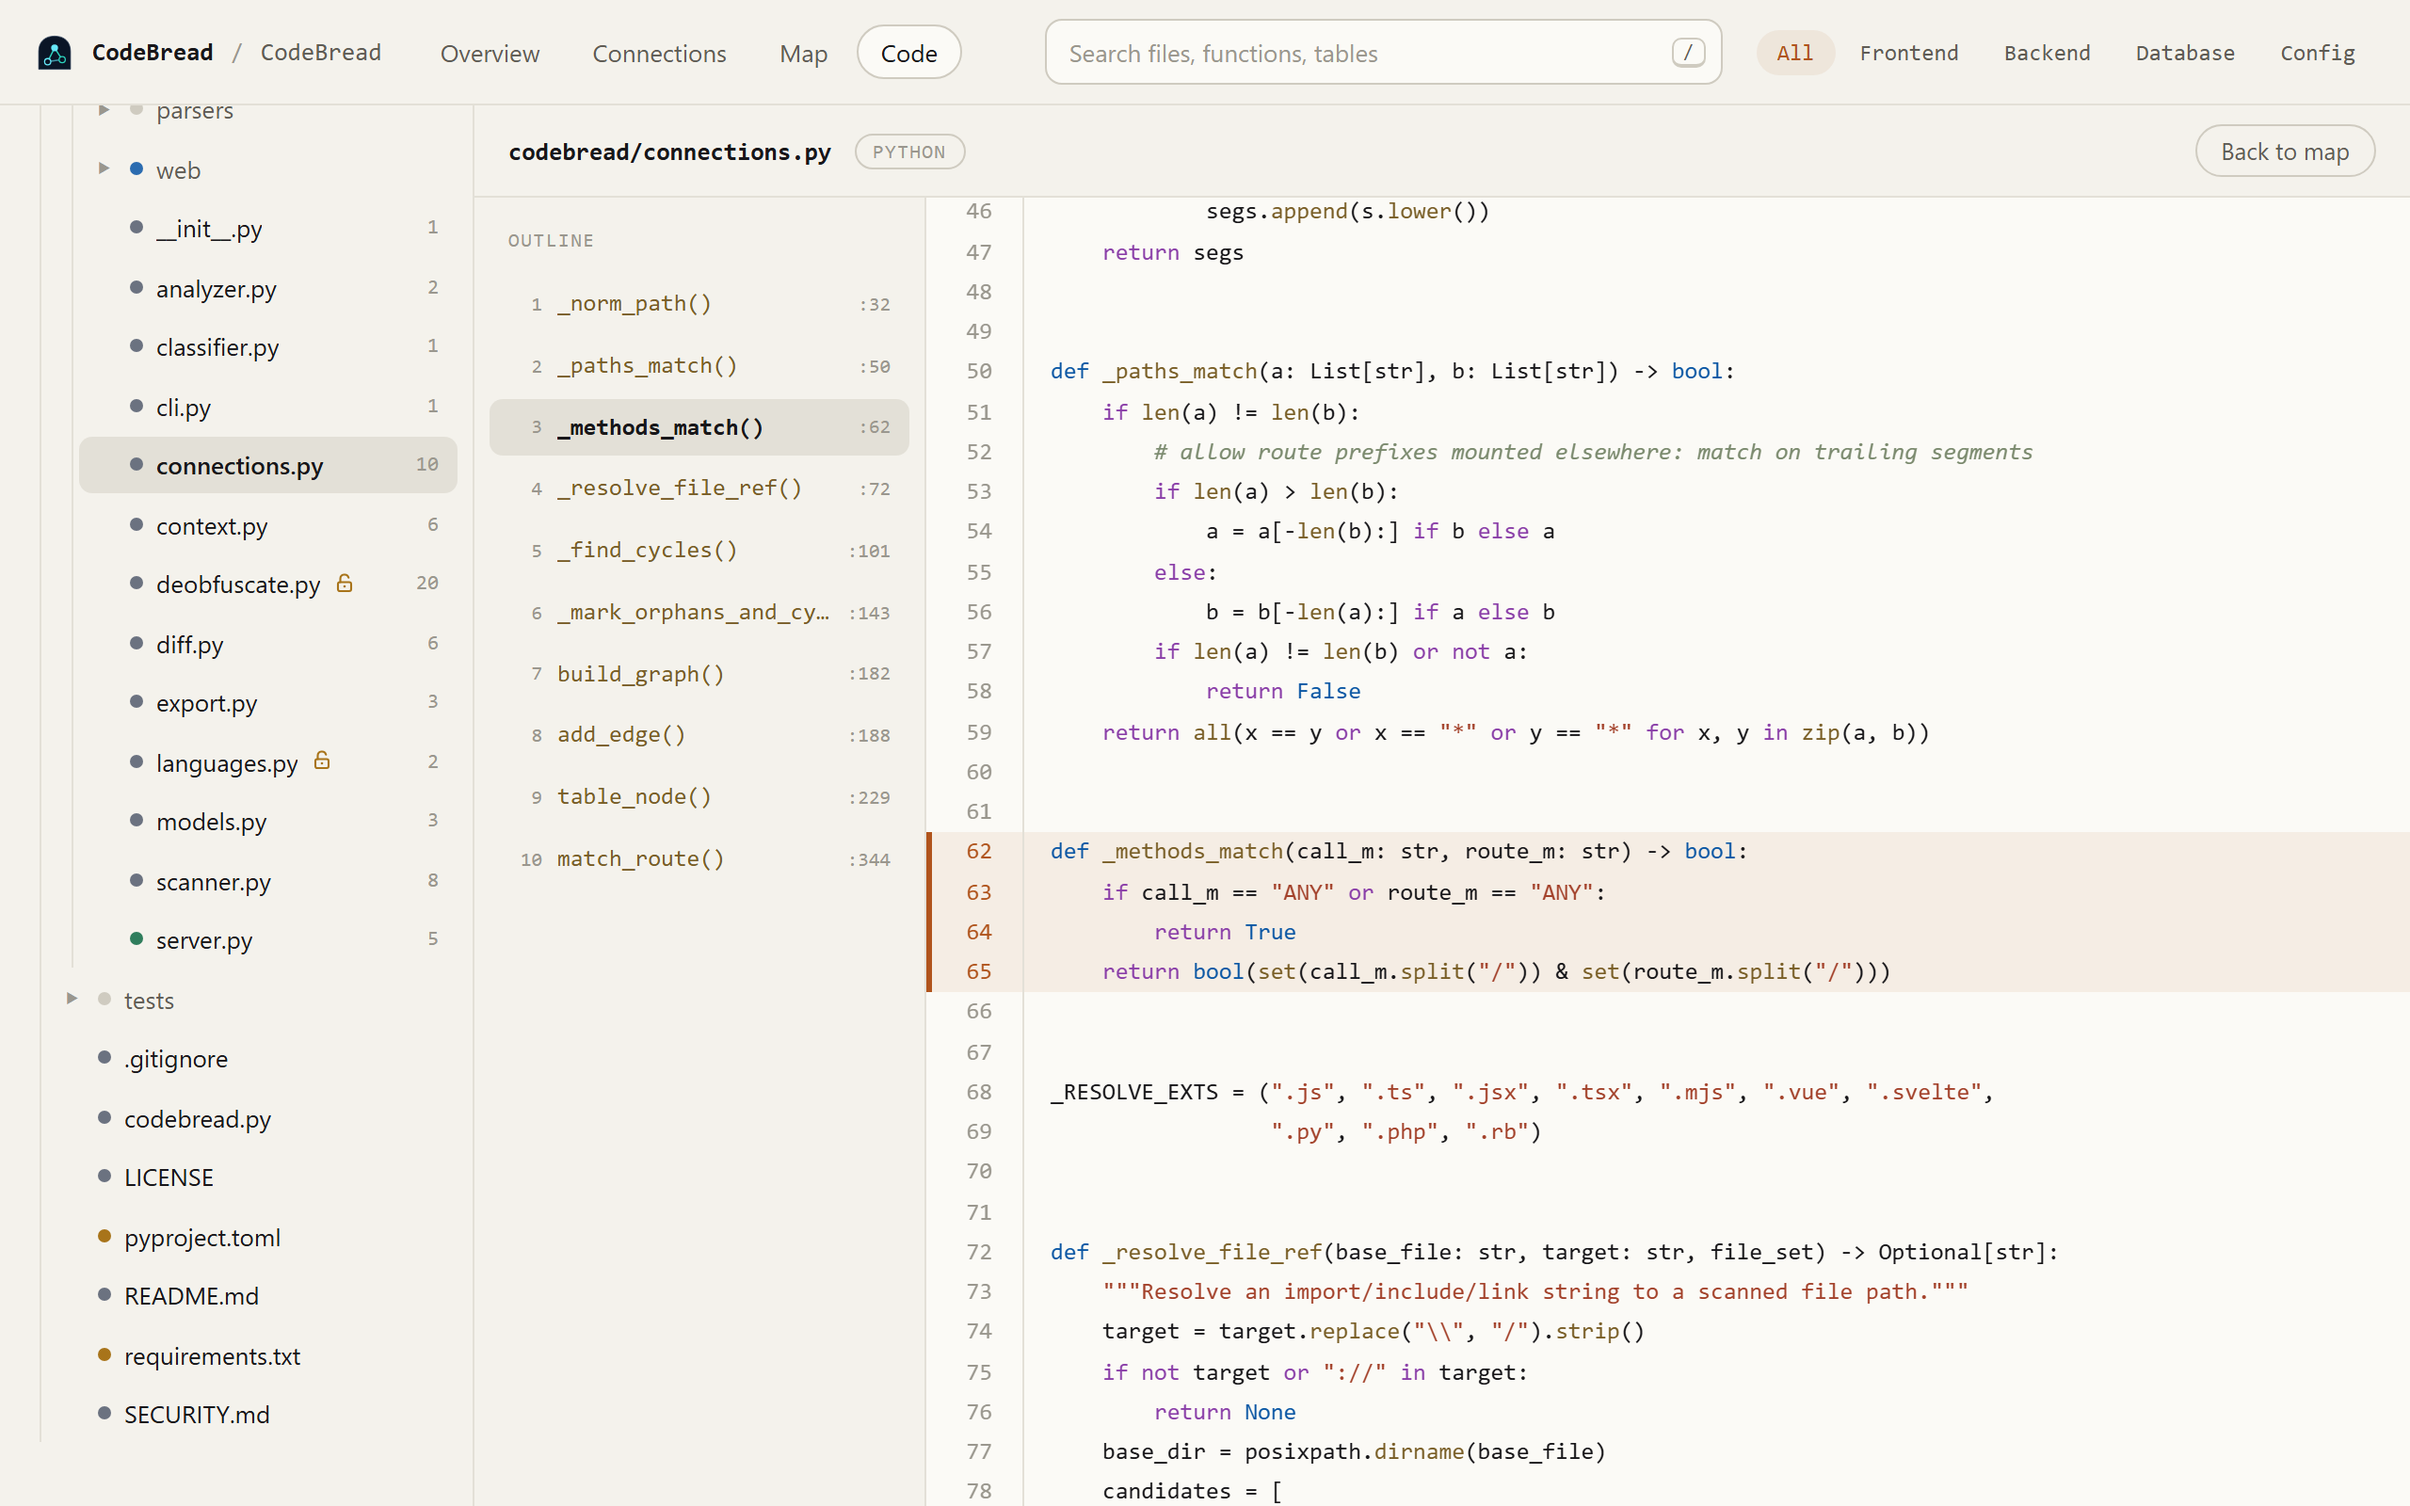
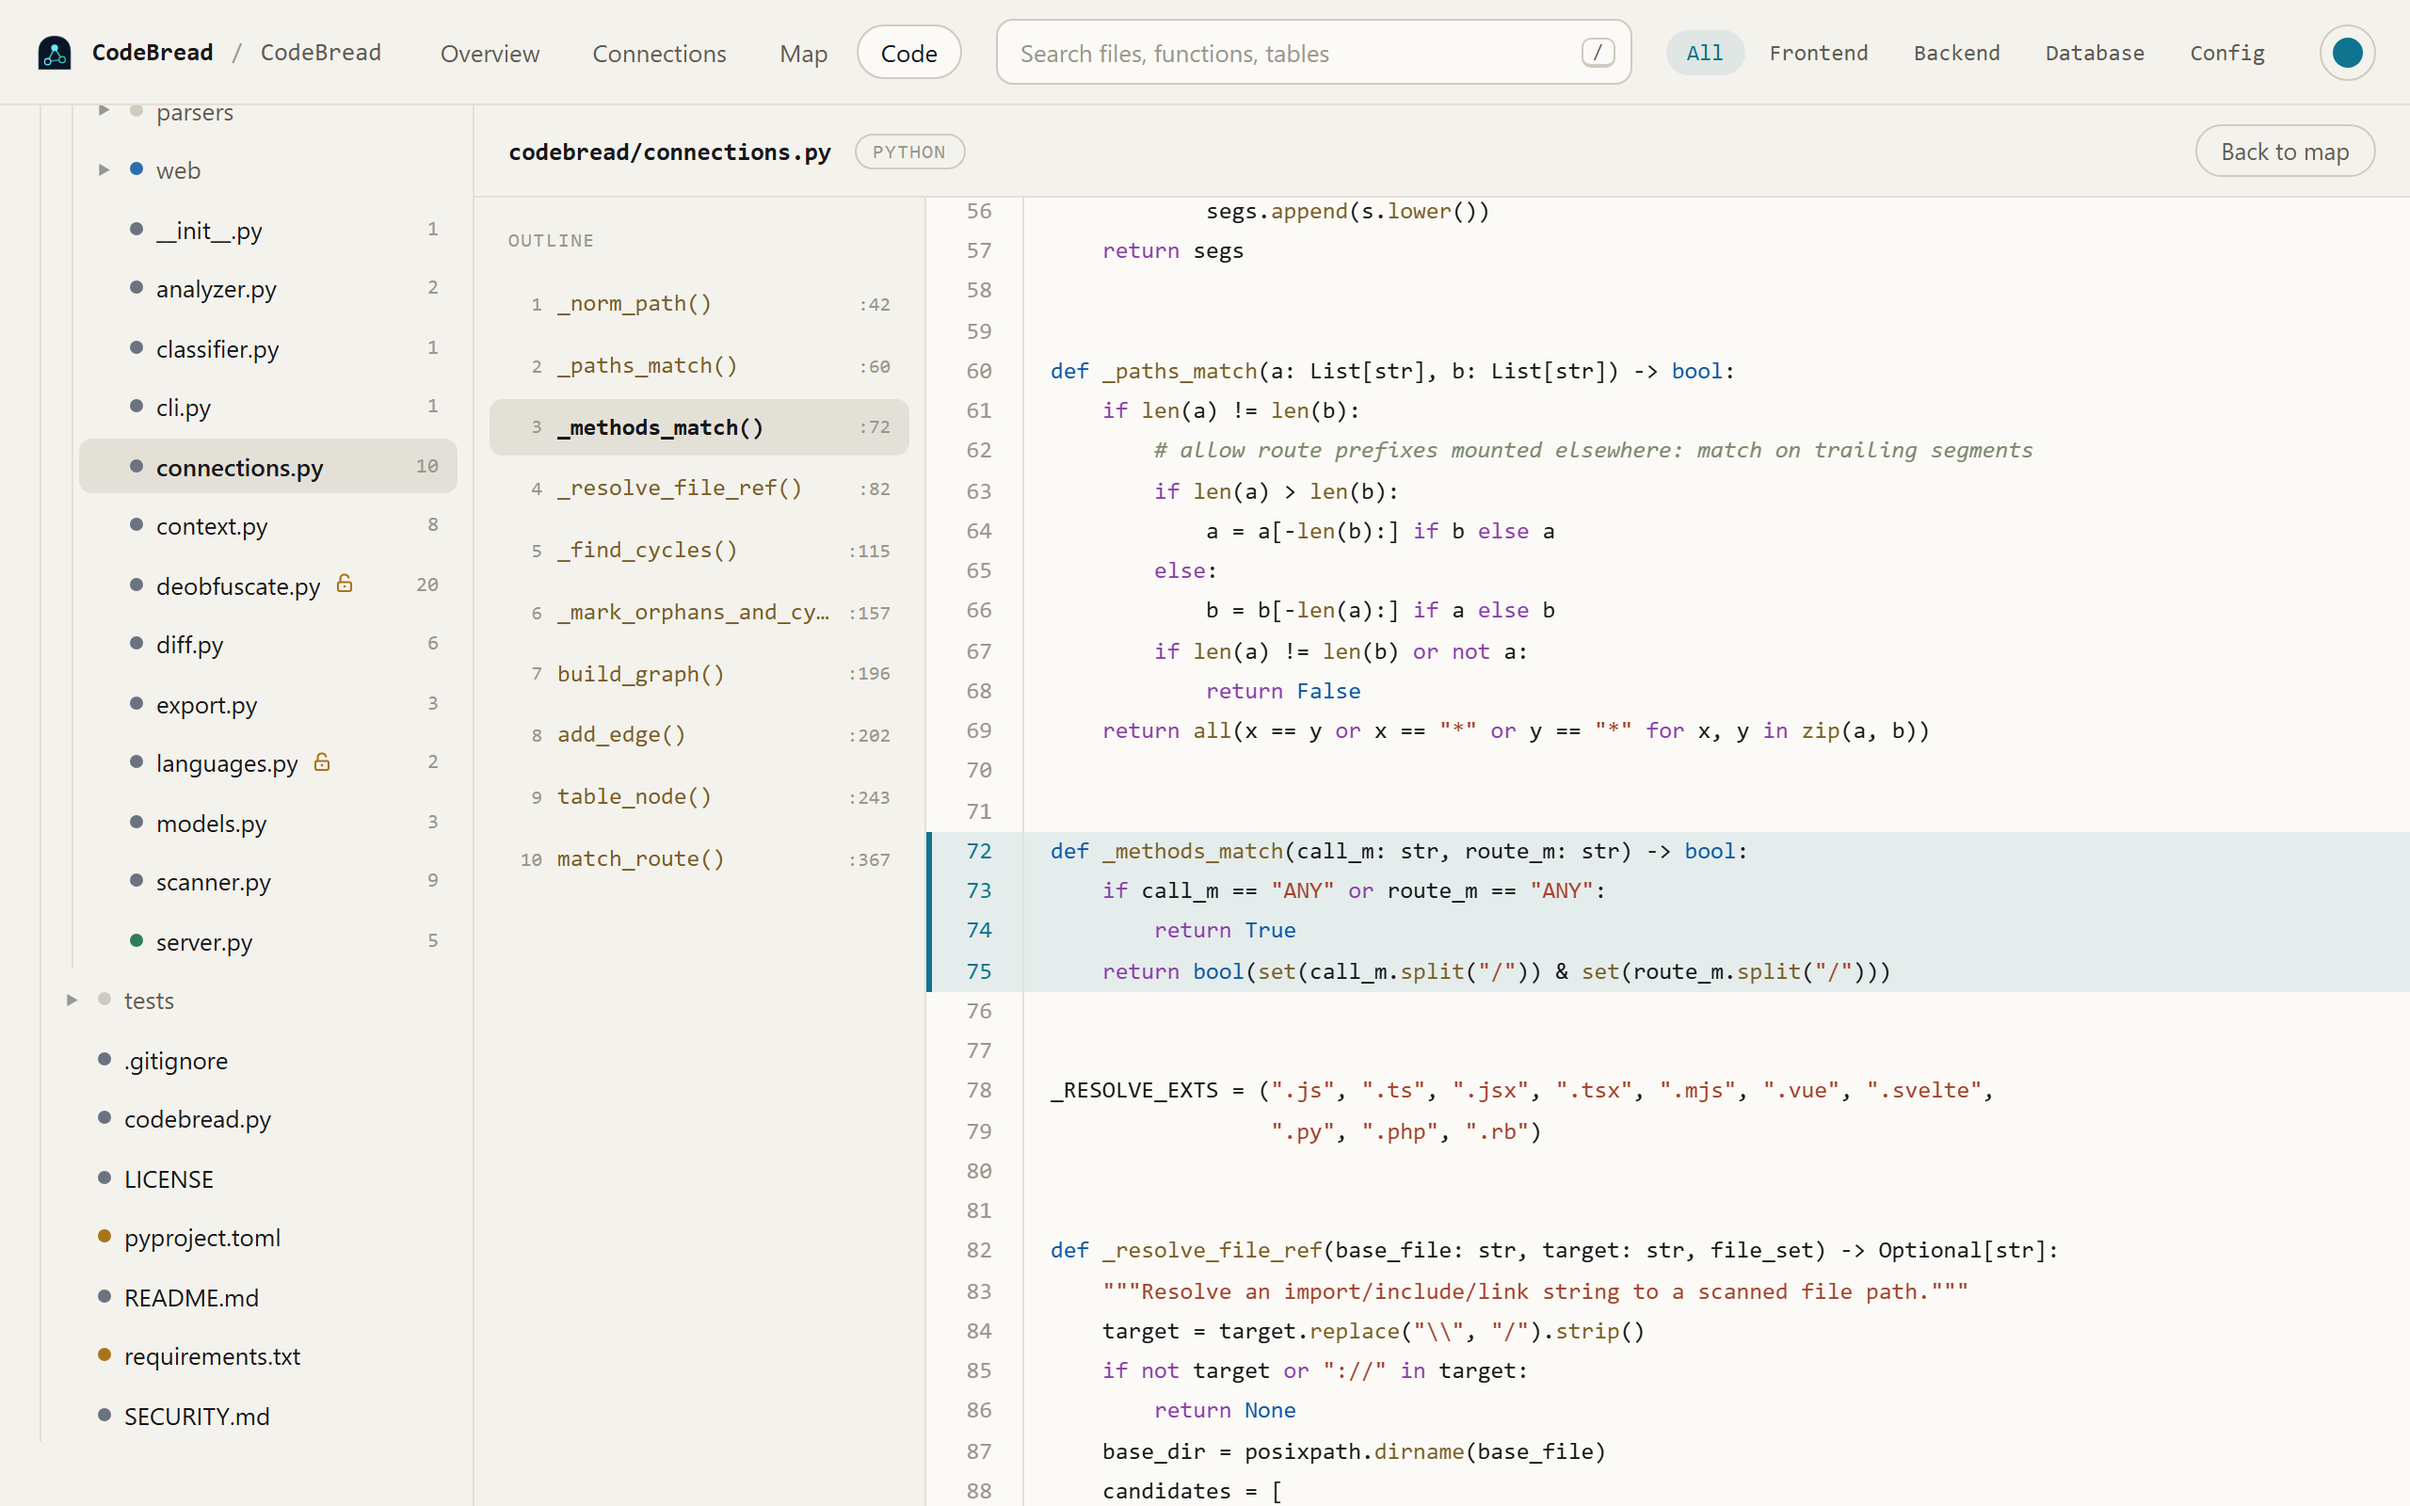
feat: implement accent color picker and update related styles

diff --git a/codebread/web/style.css b/codebread/web/style.css
@@ -14,9 +14,11 @@
   --ink-3: #9a978e;
   --line: #e3e0d7;
   --line2: #cfcbc0;
-  --accent: #b0541c;
+  /* default: the logo's cyan, deepened for text contrast on paper (~5:1).
+     Viewers can pick another from the top bar, see applyAccent() */
+  --accent: var(--accent-pick, #0e7490);
   --accent-ink: #fff;
-  --soft: rgba(176, 84, 28, 0.08);
+  --soft: color-mix(in srgb, var(--accent) 9%, transparent);
   --warn: #98580f;
   --bad: #a3372a;
   --shadow: 0 18px 40px -22px rgba(30, 24, 12, 0.35);
@@ -51,9 +53,9 @@
     --ink-3: #6c6a63;
     --line: #2a2a27;
     --line2: #3a3934;
-    --accent: #e59a62;
-    --accent-ink: #1a0f08;
-    --soft: rgba(229, 154, 98, 0.11);
+    --accent: var(--accent-pick-dark, #67e8f9);  /* the logo's exact cyan */
+    --accent-ink: #062a33;
+    --soft: color-mix(in srgb, var(--accent) 12%, transparent);
     --warn: #e2a85c;
     --bad: #ef8a7a;
     --shadow: 0 18px 40px -18px rgba(0, 0, 0, 0.7);
@@ -161,6 +163,36 @@ kbd {
 .sr-item .sr-name { font-family: var(--mono); font-size: 12.5px; color: var(--ink); }
 .sr-item .sr-path { margin-left: auto; color: var(--ink-3); font-size: 11.5px; overflow: hidden; text-overflow: ellipsis; white-space: nowrap; }
 .sr-empty { padding: 10px 12px; color: var(--ink-3); font-size: 13px; }
+
+/* ---------- accent picker ------------------------------------------------ */
+
+#accent-wrap { position: relative; }
+#accent-btn {
+  width: 30px; height: 30px; display: grid; place-items: center; cursor: pointer;
+  background: none; border: 1px solid var(--line2); border-radius: 50%;
+  transition: border-color .2s, transform .15s;
+}
+#accent-btn:hover { border-color: var(--ink); }
+#accent-btn:active { transform: scale(.94); }
+#accent-btn span { width: 16px; height: 16px; border-radius: 50%; background: var(--accent); transition: background .3s; }
+#accent-pop {
+  position: absolute; top: calc(100% + 8px); right: 0; z-index: 60; width: 236px;
+  padding: 14px; background: var(--panel); border: 1px solid var(--line2); border-radius: 12px;
+  box-shadow: var(--shadow); animation: drop .18s var(--ease);
+}
+#accent-swatches { display: grid; grid-template-columns: repeat(7, 1fr); gap: 6px; margin: 12px 0; }
+.swatch {
+  aspect-ratio: 1; border-radius: 50%; cursor: pointer; padding: 0;
+  border: 2px solid var(--panel); box-shadow: 0 0 0 1px var(--line2);
+  transition: box-shadow .2s, transform .15s;
+}
+.swatch:hover { transform: scale(1.1); }
+.swatch.on { box-shadow: 0 0 0 2px var(--ink); }
+.accent-row { display: flex; align-items: center; justify-content: space-between; gap: 8px; }
+.accent-custom { display: flex; align-items: center; gap: 8px; font-size: 13px; color: var(--ink-2); cursor: pointer; }
+#accent-input { width: 28px; height: 28px; padding: 0; border: 1px solid var(--line2); border-radius: 6px; background: none; cursor: pointer; }
+#accent-input::-webkit-color-swatch-wrapper { padding: 2px; }
+#accent-input::-webkit-color-swatch { border: 0; border-radius: 4px; }
 
 /* ---------- layout ----------------------------------------------------- */
 

diff --git a/codebread/web/app.js b/codebread/web/app.js
@@ -71,6 +71,7 @@ window.addEventListener("resize", invalidateRectCache);
 /* ---------------- boot ---------------- */
 function boot(data) {
   S.data = data;
+  bindAccent();  // first, so a saved accent applies before anything animates in
   indexData();
   renderHeader();
   renderLanguages();
@@ -2412,6 +2413,55 @@ function esc(s) {
     c => ({ "&": "&amp;", "<": "&lt;", ">": "&gt;", '"': "&quot;", "'": "&#39;" }[c]));
 }
 
+
+/* ---------------- accent color ----------------
+   The viewer's pick sets --accent-pick; CSS derives everything else (--soft,
+   focus rings, highlights). Dark mode gets a lightened mix so it stays legible.
+   Saved per browser: it's a personal preference, not part of the report. */
+const ACCENTS = [["Cyan (logo)", null], ["Blue", "#2563eb"], ["Crust", "#b0541c"],
+  ["Green", "#3f7d3a"], ["Violet", "#7c4dbd"], ["Rose", "#c2416b"], ["Graphite", "#3f3f46"]];
+const ACCENT_DEFAULT = "#0e7490";  // keep in sync with --accent in style.css
+const ACCENT_KEY = "codebread_accent";
+
+function applyAccent(hex, save = true) {
+  const st = document.documentElement.style;
+  if (hex) {
+    st.setProperty("--accent-pick", hex);
+    st.setProperty("--accent-pick-dark", `color-mix(in srgb, ${hex} 62%, white)`);
+  } else {
+    st.removeProperty("--accent-pick");
+    st.removeProperty("--accent-pick-dark");
+  }
+  if (save) {
+    try { hex ? localStorage.setItem(ACCENT_KEY, hex) : localStorage.removeItem(ACCENT_KEY); } catch (e) { /* no storage */ }
+  }
+  document.querySelectorAll(".swatch").forEach(b => b.classList.toggle("on", (b.dataset.hex || null) === hex));
+  $("accent-input").value = hex || ACCENT_DEFAULT;
+}
+
+function bindAccent() {
+  $("accent-swatches").innerHTML = ACCENTS.map(([name, hex]) =>
+    `<button class="swatch" ${hex ? `data-hex="${hex}"` : ""} title="${name}" aria-label="${name}" ` +
+    `style="background:${hex || ACCENT_DEFAULT}"></button>`).join("");
+  let saved = null;
+  try { saved = localStorage.getItem(ACCENT_KEY); } catch (e) { /* no storage */ }
+  applyAccent(saved, false);
+
+  const btn = $("accent-btn"), pop = $("accent-pop");
+  const toggle = (open) => {
+    pop.classList.toggle("hidden", !open);
+    btn.setAttribute("aria-expanded", String(open));
+  };
+  btn.addEventListener("click", () => toggle(pop.classList.contains("hidden")));
+  $("accent-swatches").addEventListener("click", (ev) => {
+    const sw = ev.target.closest(".swatch");
+    if (sw) applyAccent(sw.dataset.hex || null);
+  });
+  $("accent-input").addEventListener("input", (ev) => applyAccent(ev.target.value));
+  $("accent-reset").addEventListener("click", () => applyAccent(null));
+  document.addEventListener("click", (ev) => { if (!ev.target.closest("#accent-wrap")) toggle(false); });
+  document.addEventListener("keydown", (ev) => { if (ev.key === "Escape") toggle(false); });
+}
 
 /* ---------------- start ----------------
    Must run after every top-level const above is initialized: the static

diff --git a/codebread/web/index.html b/codebread/web/index.html
@@ -47,6 +47,19 @@
       <button data-layer="database">Database</button>
       <button data-layer="config">Config</button>
     </nav>
+
+    <div id="accent-wrap">
+      <button id="accent-btn" title="Accent color" aria-label="Accent color"
+              aria-haspopup="dialog" aria-expanded="false"><span></span></button>
+      <div id="accent-pop" class="hidden" role="dialog" aria-label="Accent color">
+        <div class="kicker">Accent color</div>
+        <div id="accent-swatches"></div>
+        <div class="accent-row">
+          <label class="accent-custom"><input type="color" id="accent-input"> Custom</label>
+          <button id="accent-reset" class="chip">Reset</button>
+        </div>
+      </div>
+    </div>
   </header>
 
   <div id="main">

diff --git a/README.md b/README.md
@@ -13,7 +13,7 @@
 </p>
 
 <p align="center">
-  <a href="https://pypi.org/project/codebread/"><img alt="PyPI" src="https://img.shields.io/pypi/v/codebread?color=b0541c&label=pypi"></a>
+  <a href="https://pypi.org/project/codebread/"><img alt="PyPI" src="https://img.shields.io/pypi/v/codebread?color=0e7490&label=pypi&cacheSeconds=3600"></a>
   <a href="https://github.com/honow48-tech/CodeBread/actions/workflows/ci.yml"><img alt="CI" src="https://github.com/honow48-tech/CodeBread/actions/workflows/ci.yml/badge.svg"></a>
   <img alt="Python 3.9+" src="https://img.shields.io/badge/python-3.9%2B-5f5c55">
   <img alt="No dependencies" src="https://img.shields.io/badge/dependencies-none-5f5c55">
@@ -66,6 +66,12 @@ it, all the way from a frontend `fetch()` to the database table.
 
 Read any file with an outline and syntax highlighting, without leaving the page.
 
+### Your colours
+
+The report follows your system's light or dark mode. Click the dot at the
+right of the top bar to pick an accent colour; your choice is saved in your
+browser.
+
 <p align="center">
   <img src="https://cdn.jsdelivr.net/gh/honow48-tech/CodeBread@main/assets/code.png" alt="The Code view: file tree, function outline and highlighted source" width="880">
 </p>
@@ -112,7 +118,7 @@ codebread --path . --html report.html --no-serve
 | Python | ✓ | Flask, FastAPI, Django | requests, httpx, aiohttp | SQLAlchemy, Django, peewee |
 | JavaScript / TypeScript | ✓ | Express, Fastify, Koa, NestJS | fetch, axios | Prisma, Mongoose, Sequelize, Knex, TypeORM |
 | Vue / Svelte | ✓ | same as JS | fetch, axios | same as JS |
-| PHP | ✓ | Laravel | – | raw SQL |
+| PHP | ✓ | Laravel (incl. closures) | – | Eloquent, migrations, raw SQL |
 | Java | ✓ | Spring | – | raw SQL |
 | C# | ✓ | ASP.NET | – | raw SQL |
 | Go | ✓ | Gin, net/http | – | raw SQL |
@@ -138,7 +144,7 @@ structural regex with brace matching and gets parameter names only.
 | Java | regex | ✓ | ✓ | ✓ | – | – | ✓ | ✓ | – |
 | C# | regex | ✓ | ✓ | ✓ | – | – | ✓ | ✓ | – |
 | Go | regex | ✓ | structs | ✓ | – | – | ✓ | ✓ | – |
-| PHP | regex | ✓ | ✓ | ✓ | – | – | ✓ | ✓ | ✓ |
+| PHP | regex | ✓ | ✓ | ✓ | – | Eloquent + migrations | ✓ | ✓ | ✓ |
 | Ruby | regex | ✓ | ✓ | ✓ | – | – | ✓ | ✓ | ✓ |
 | SQL | regex | – | – | – | – | tables + columns | ✓ | – | – |
 | Config (`.env`, json, yaml, toml, ini, xml) | key scan | – | – | – | – | – | – | – | – |
